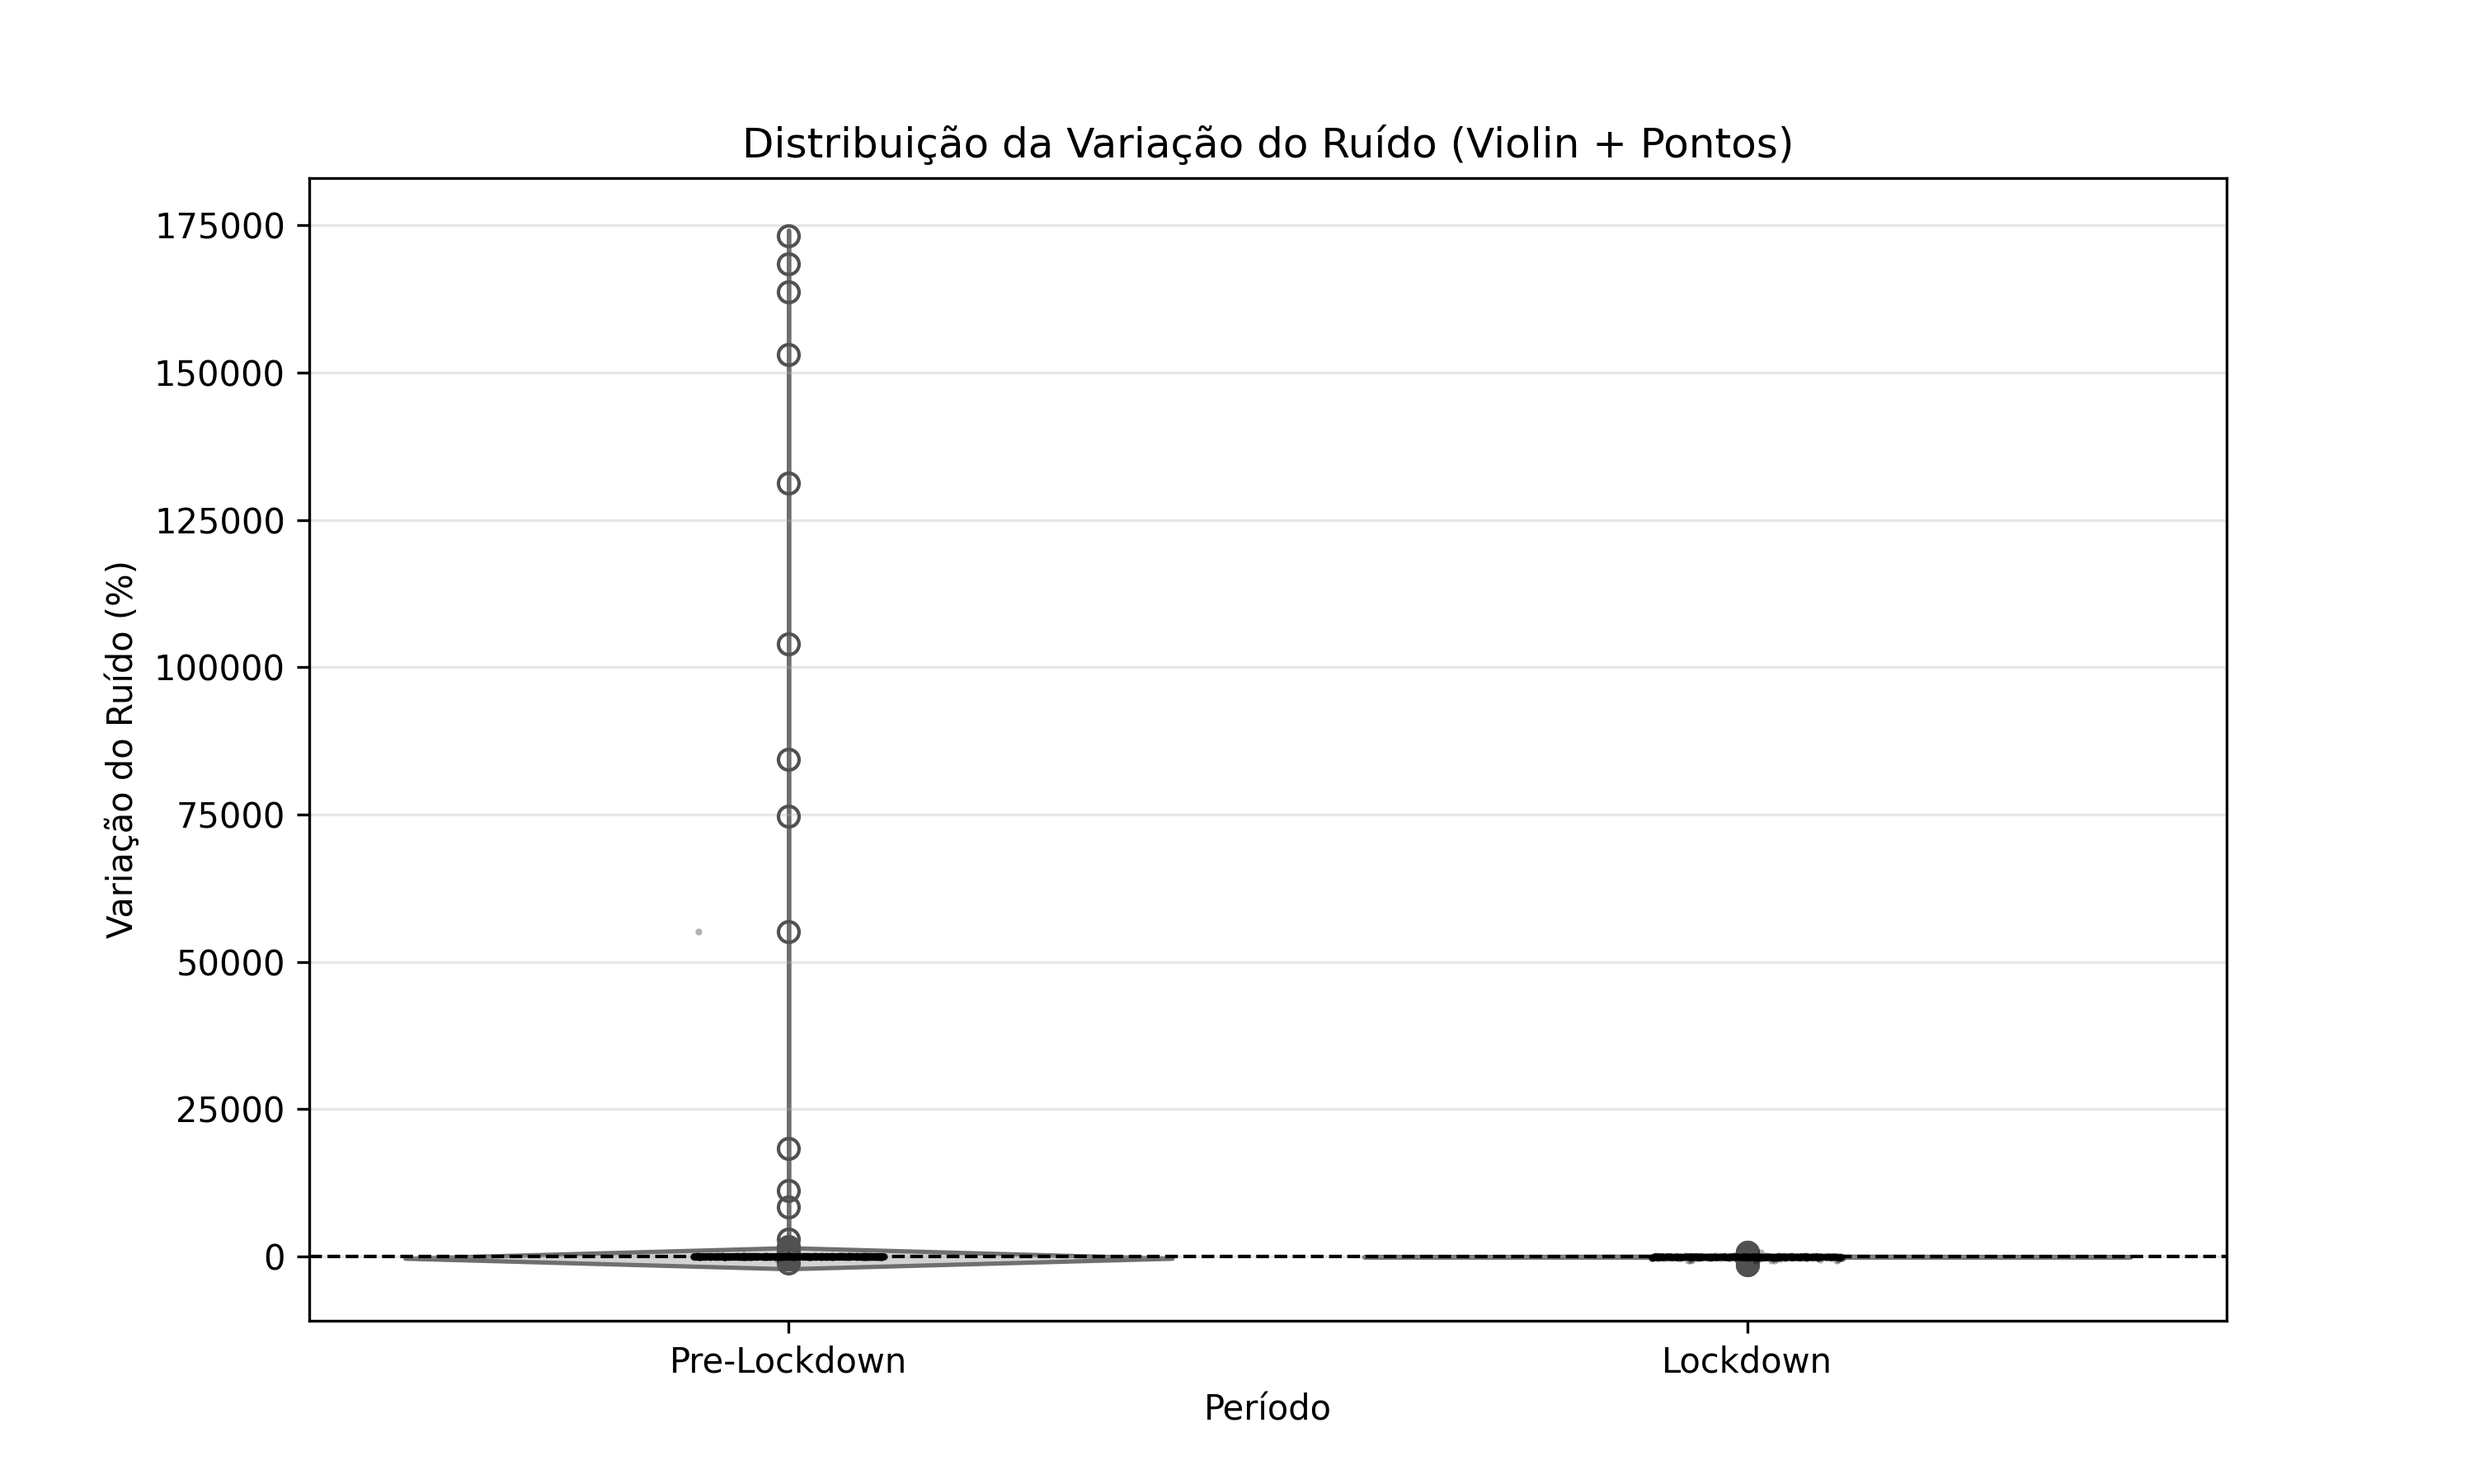
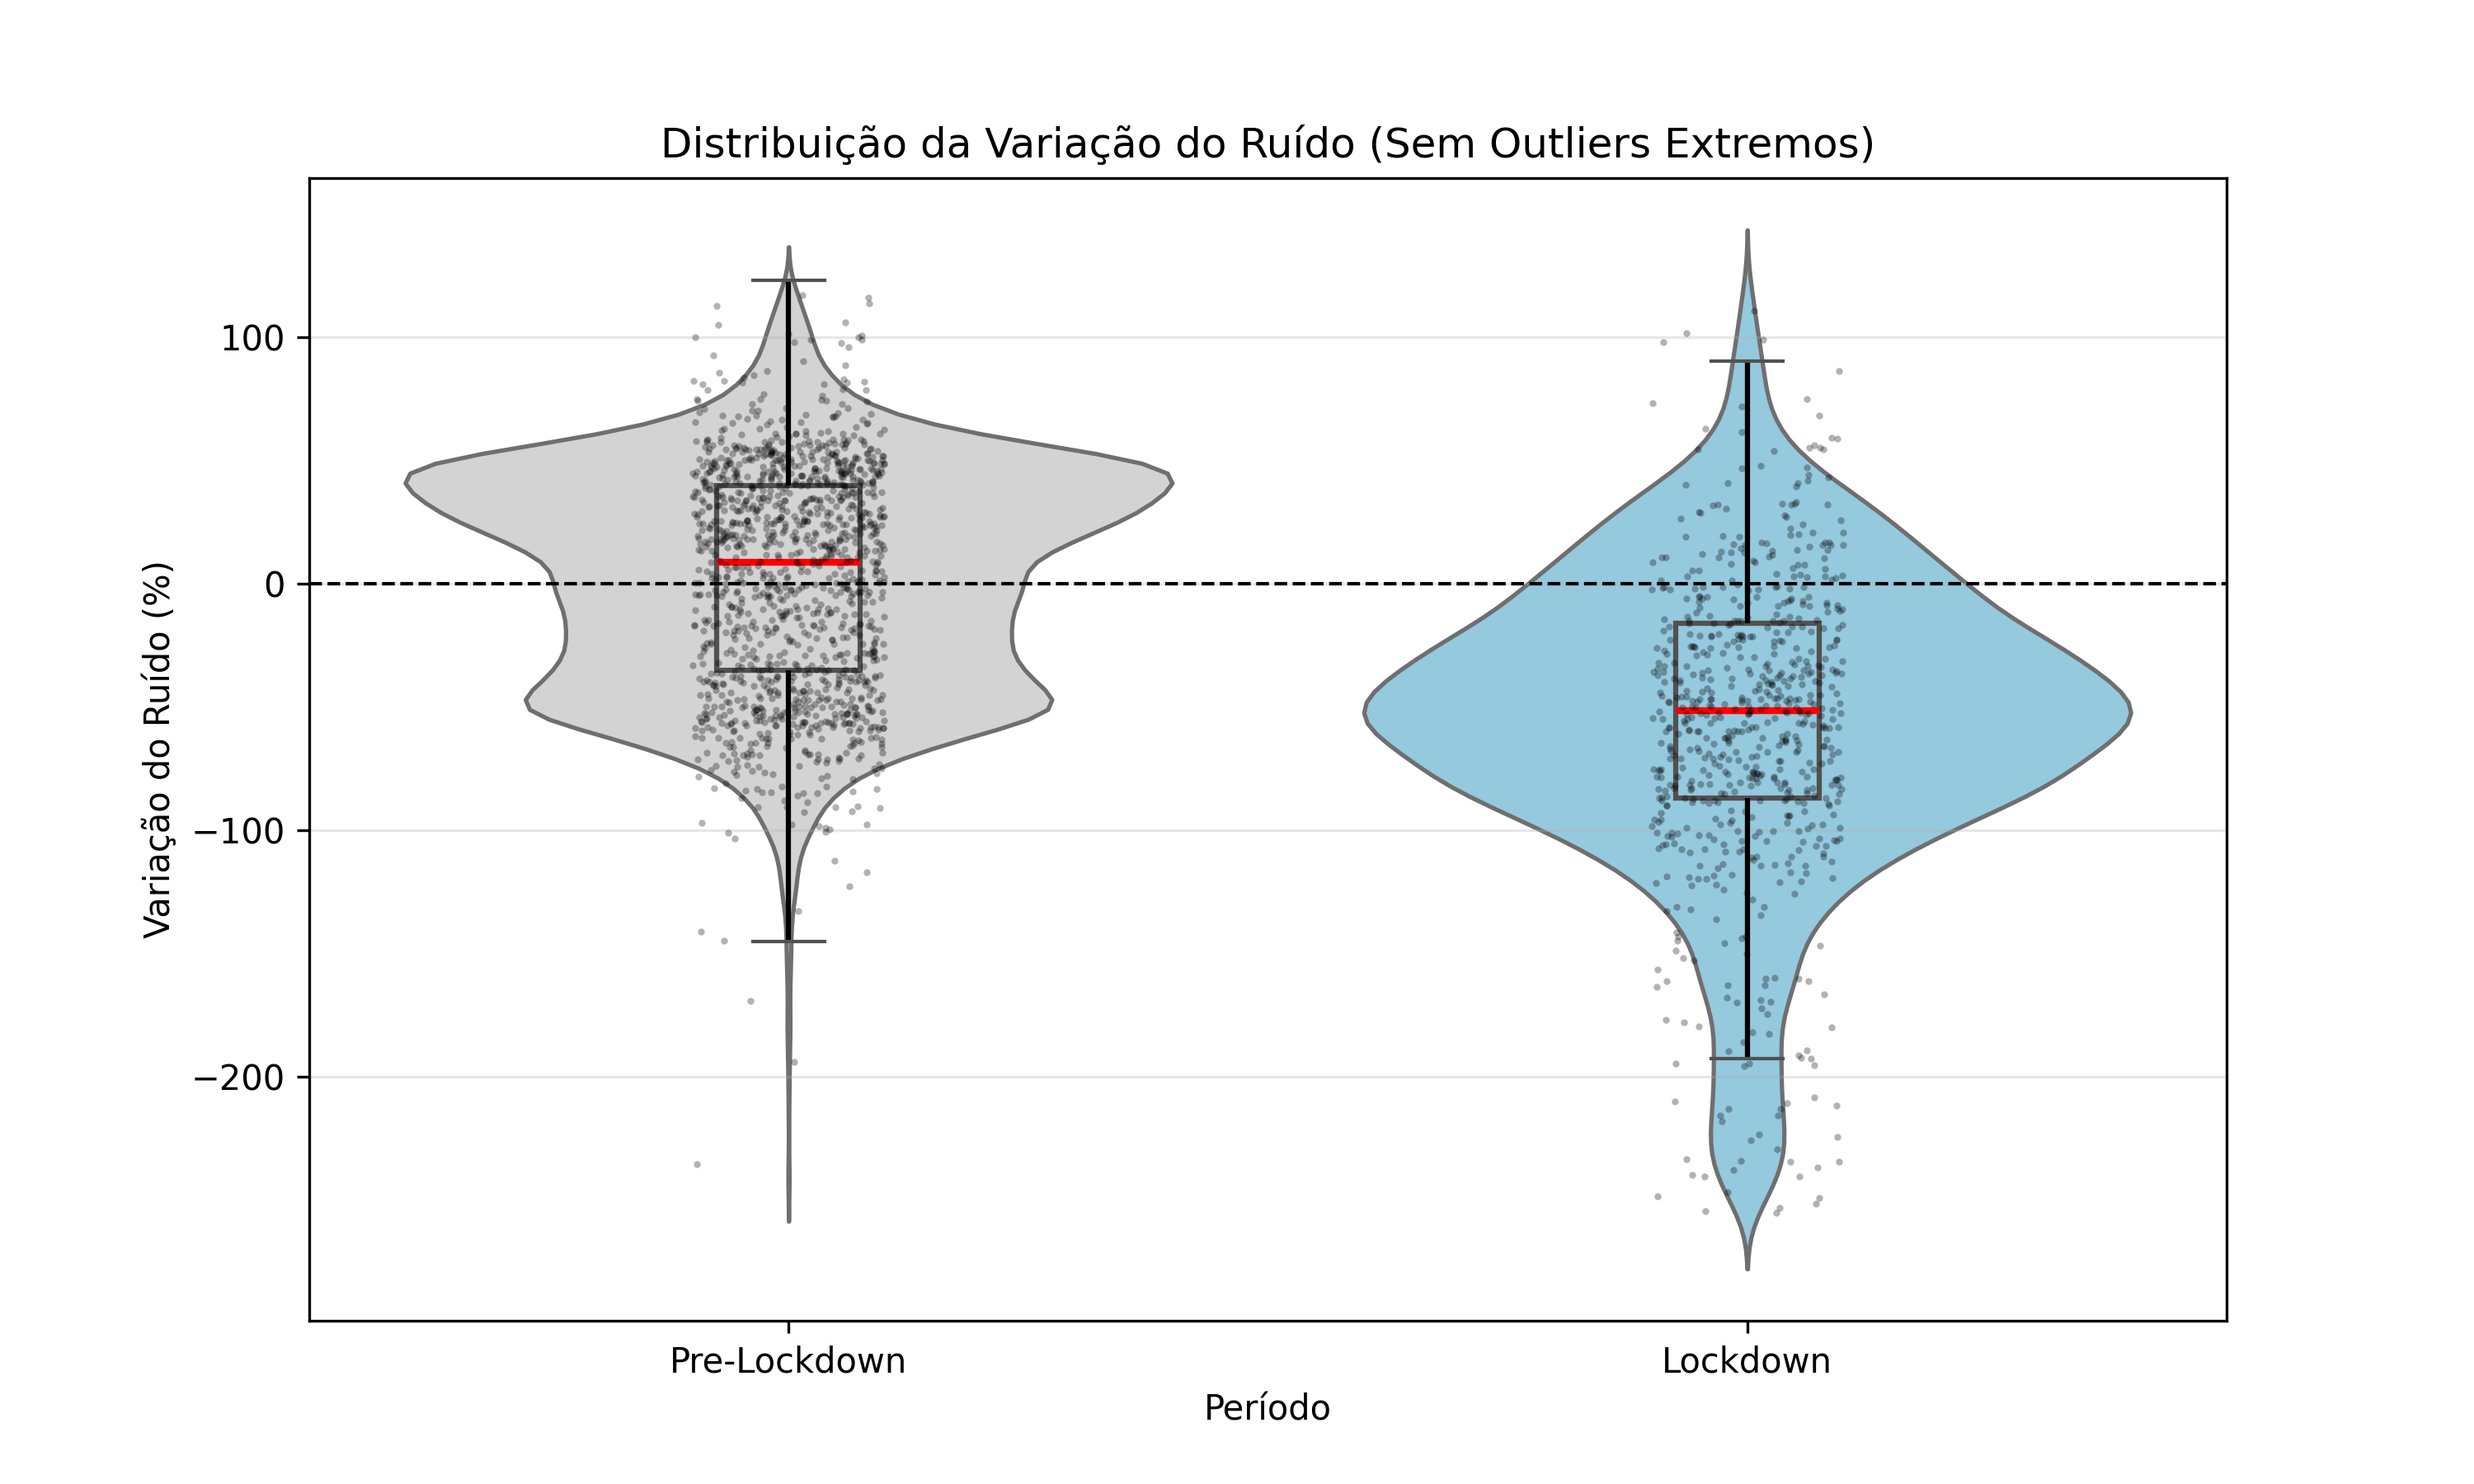
Fix: Filter outliers (1st-99th percentile) in Violin Plot to reveal boxplot

diff --git a/02_statistical_analysis.py b/02_statistical_analysis.py
@@ -165,24 +165,34 @@ def perform_analysis():
     print("\n--- Section: Violin Plot (Distribution with Points) ---")
     plt.figure(figsize=(10, 6))
     
+    # Filter Outliers for better Visualization (User Request)
+    # outliers stretch the axis and hide the boxplot structure
+    # filtering to 1st-99th percentile usually removes extreme transient spikes
+    q_low = df['noise_change_pct'].quantile(0.01)
+    q_high = df['noise_change_pct'].quantile(0.99)
+    df_filtered = df[(df['noise_change_pct'] > q_low) & (df['noise_change_pct'] < q_high)]
+    
     # Violin Plot (The "Bell")
-    sns.violinplot(data=df, x='condition', y='noise_change_pct', 
+    sns.violinplot(data=df_filtered, x='condition', y='noise_change_pct', 
                    inner=None, palette={'Pre-Lockdown': 'lightgray', 'Lockdown': 'skyblue'})
     
     # Strip Plot (The Points)
-    # Subsample data to avoid overcrowded plot if necessary (N > 5000)
-    sample_df = df.sample(2000) if len(df) > 2000 else df
+    # Subsample filtered data
+    sample_df = df_filtered.sample(2000) if len(df_filtered) > 2000 else df_filtered
     sns.stripplot(data=sample_df, x='condition', y='noise_change_pct', 
                   color='k', size=2, alpha=0.3, jitter=True)
     
-    # Add Boxplot inside for quartiles reference (optional, but standard in violin)
-    sns.boxplot(data=df, x='condition', y='noise_change_pct', 
-                width=0.2, boxprops={'zorder': 2, 'facecolor':'none'},
-                whiskerprops={'color':'k'}, medianprops={'color':'red'})
+    # Add Boxplot inside
+    # Since we filtered extreme outliers, the box should be clearly visible now
+    sns.boxplot(data=df_filtered, x='condition', y='noise_change_pct', 
+                width=0.15, boxprops={'zorder': 2, 'facecolor':'none', 'linewidth': 1.5},
+                whiskerprops={'color':'k', 'linewidth': 1.5}, 
+                medianprops={'color':'red', 'linewidth': 2},
+                showfliers=False) # Hide fliers in the boxplot itself too
 
     plt.axhline(0, color='black', linestyle='--', linewidth=1)
     
-    plt.title('Distribuição da Variação do Ruído (Violin + Pontos)')
+    plt.title('Distribuição da Variação do Ruído (Sem Outliers Extremos)')
     plt.ylabel('Variação do Ruído (%)')
     plt.xlabel('Período')
     plt.grid(True, axis='y', alpha=0.3)
